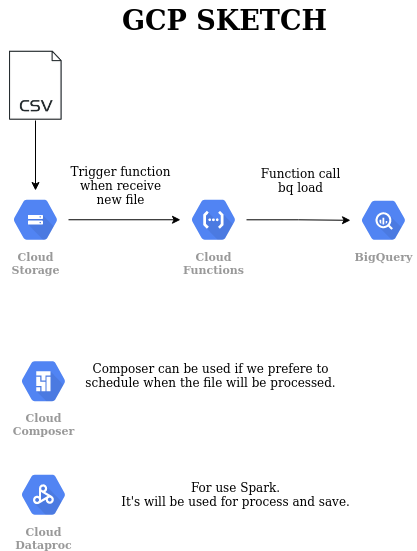
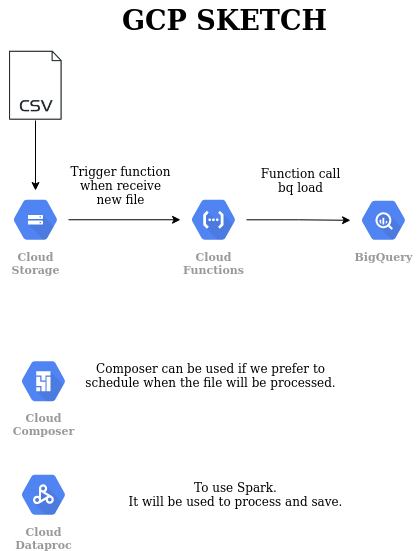
Changes

Changed region(s): [[0.2806, 0.8639, 0.8417, 0.9256], [0.2182, 0.6479, 0.7794, 0.6788]]

diff --git a/README.md b/README.md
@@ -1,5 +1,5 @@
 # Trips Ingestion
-Code create to ingest CSV file with trips to PostgreSQL, process table and 
+Code created to ingest CSV file with trips to PostgreSQL, process table and 
 create views.
 
 ## Tecnologies
@@ -35,7 +35,7 @@ docker-compose up
 * Add a new server using:
   * Hostname: postgis
   * User:postgres
-  * Password:postgres
+  * Password:!2qwaszx
 
 ### Process CSV file:
 This command will start the ingestion process. 
@@ -47,11 +47,11 @@ docker exec -it python poetry run trips
 * Automate process to read csv and save in Postgres, using Python, Pandas and SQLAlchemy.
 * Create a view to get similar trips (2.5 kilometers radius) from origin, destination and hour of day
 * Create view to get the weekly average trips by region 
-* After process file it will be moved to a folder processed
+* After process file it will be moved to a folder called "processed"
 
 ## Scalability
 ### Create CSV file
-For create CSV with 50mi rows use the python code in /other/create_csv.py.
+To create CSV with 50mi rows use the python code in /other/create_csv.py.
 ```commandline
 docker exec -it python poetry run create_50mi_file
 ```
@@ -72,10 +72,10 @@ When Python script trips is called, it will load CSV file (/input_files) using
 Pandas in chunks of 5000000 row, and save in Postgres in chunks of 10000 row.
 The chunk size can be changed on .secrets.toml file.
 
-After read and insert data in Postgres the file will be coped to a folder called processed.
+After reading and inserting data in Postgres the file will be coped to a folder called processed.
 
-The next step is execute SQL script file (/SQL/create_trips_log.sql), this sql will create
-a table in schema called operation, insert rows typed and create two views for 
+The next step is to execute the SQL script file (/SQL/create_trips_log.sql), this sql will create
+a table in schema called operation, insert typed rows and create two views for 
 similar trips and weekly trips.
 
 ## GCP sketch
